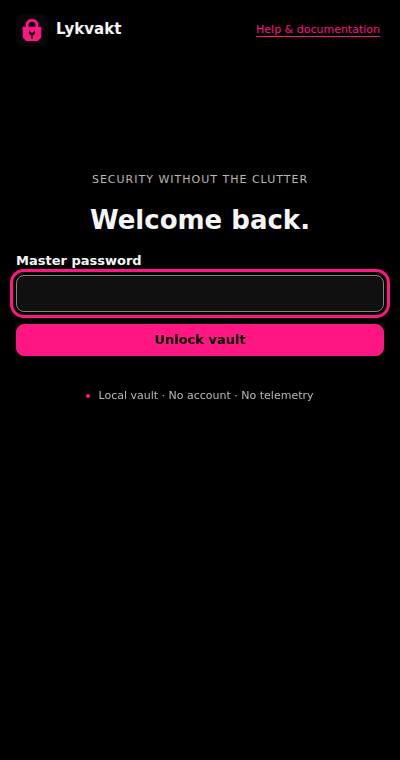
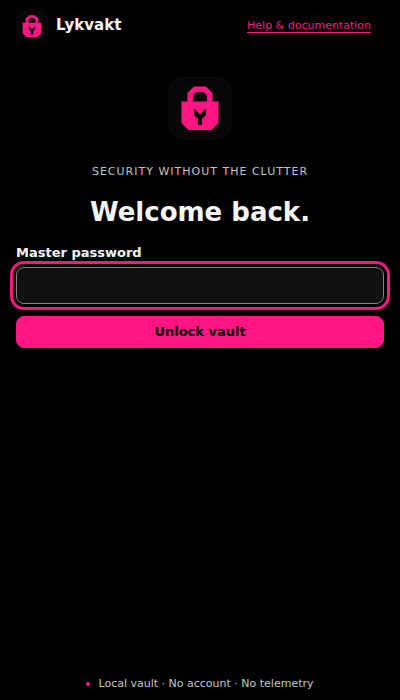
Refresh popup and window captures and verify native visibility

diff --git a/README.md b/README.md
@@ -4,7 +4,7 @@ I built Lykvakt because I wanted a small authenticator for Chrome that I could u
 
 The name is coined and Nordic-inspired, with the idea of watching over your keys.
 
-![Authenticator with synthetic accounts](docs/screenshots/accounts-amoled.png)
+![Authenticator popup with synthetic accounts](docs/screenshots/popup-mode.png)
 
 ## Build and test
 
@@ -22,7 +22,7 @@ npm run test:browser
 
 To load the extension, open chrome://extensions, enable **Developer mode**, choose **Load unpacked** and select `dist/`. Run `npm run package` if you want an install ZIP.
 
-CI also runs axe accessibility checks, tests switching away without locking in a browser with a visible window, and takes repeated vault-window startup measurements. The workflow runs show which checks passed.
+CI also runs axe accessibility checks, tests popup locking and window switching in headed Chromium, and measures repeated popup-document startup. The workflow runs show which checks passed.
 
 ## Using Lykvakt
 
@@ -34,7 +34,7 @@ Save an encrypted backup somewhere outside the browser, then choose **Verify or 
 
 Imports recognise supported formats and show any skipped entries before you save. The [design and recovery guide](docs/design.md) explains the formats, migration steps and compatibility limits. Steam support covers sign-in codes; it doesn't handle trade or market confirmations.
 
-The popup locks when it closes or loses focus. An explicit window stays open while you switch apps and defaults to a five-minute inactivity timer. Settings offers other timers and **When this window closes**. File and QR-image selection happens in that window, which asks for its own unlock; pasting import text works in the popup. Password length is your choice, with a long, unique passphrase recommended. Help & documentation includes the essential instructions offline, with an optional [full usage guide](docs/usage.md). Import, export and backups live together in **Backup**.
+The popup locks when it closes or loses focus. An explicit window stays open while you switch apps and defaults to a five-minute inactivity timer. Settings offers other timers and **When this window closes**. File and QR-image selection happens in that window, which asks for its own unlock; pasting import text works in the popup. Password length is your choice, with a long, unique passphrase recommended. Help & documentation includes the essential instructions offline, with an optional [full usage guide](docs/usage.md). Import, export and backups live together in **Backup**. See the [window and other screenshots](docs/screenshots.md).
 
 ## Under the hood
 

diff --git a/docs/screenshots.md b/docs/screenshots.md
@@ -1,0 +1,34 @@
+# Screenshots
+
+These are captures of the running extension in Chromium, using synthetic accounts. They show the extension document, without browser chrome. No account details or controls were redrawn.
+
+Every image is 400 px wide. The popup capture is 400 × 580; window captures are 400 × 700. The rendered app source is [3128a395](https://github.com/librerob/lykvakt/commit/3128a3956ec5b7d9850c770a743dcc73e10bb792). The screenshot refresh and headed test-driver correction do not change the app runtime.
+
+## Popup
+
+The default toolbar view keeps its header in place while the account list scrolls.
+
+![Popup with synthetic accounts](screenshots/popup-mode.png)
+
+## Window
+
+File selection uses an explicitly opened window. Its default inactivity limit is five minutes; the setting can be changed.
+
+![Window with synthetic accounts](screenshots/window-mode.png)
+
+## Other views
+
+- [Code controls and countdown](screenshots/accounts-expiring.png)
+- [Account list](screenshots/accounts-amoled.png)
+- [Empty vault](screenshots/empty.png)
+- [Setup](screenshots/setup.png)
+- [Locked vault](screenshots/locked.png)
+- [Settings](screenshots/settings.png)
+- [Verified backup](screenshots/backup-verified.png)
+- [Fresh-profile restoration](screenshots/recovered-fresh-profile.png)
+- [Eight-digit codes](screenshots/desktop-eight-digit.png)
+- [Long names](screenshots/long-name.png)
+- [Steam support](screenshots/steam-row.png)
+- [Older vault format](screenshots/old-format.png)
+
+The older-format screen refers to the old version's Recovery menu. The current app groups import, export and backups in Backup.

diff --git a/CHANGELOG.md b/CHANGELOG.md
@@ -4,6 +4,7 @@
 
 - Restore the quick toolbar popup, with an explicit window for native file selection and a five-minute window timer.
 - Group import, export and backup in Backup; compact empty/account views and keep essential help available offline.
+- Wait for vault metadata before enabling password forms, and clear filters when the vault becomes empty.
 
 - Use Lykvakt as the product name and remove development-preview labels from the app and Store assets.
 - Shorten the Store description and replace the long list of authenticator names with a general import summary.
